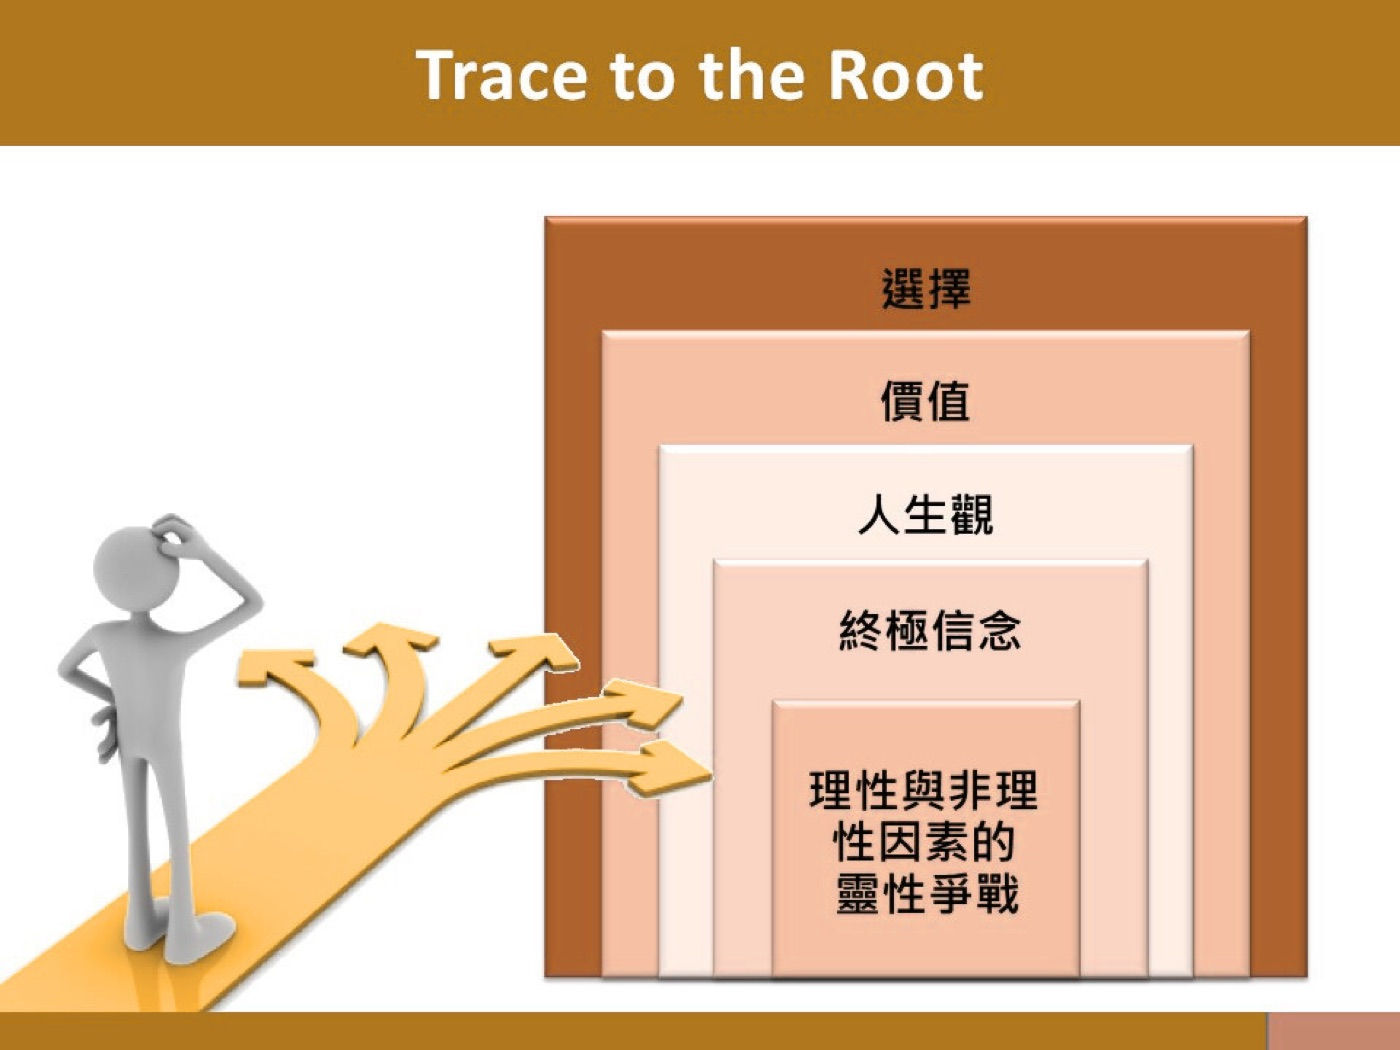
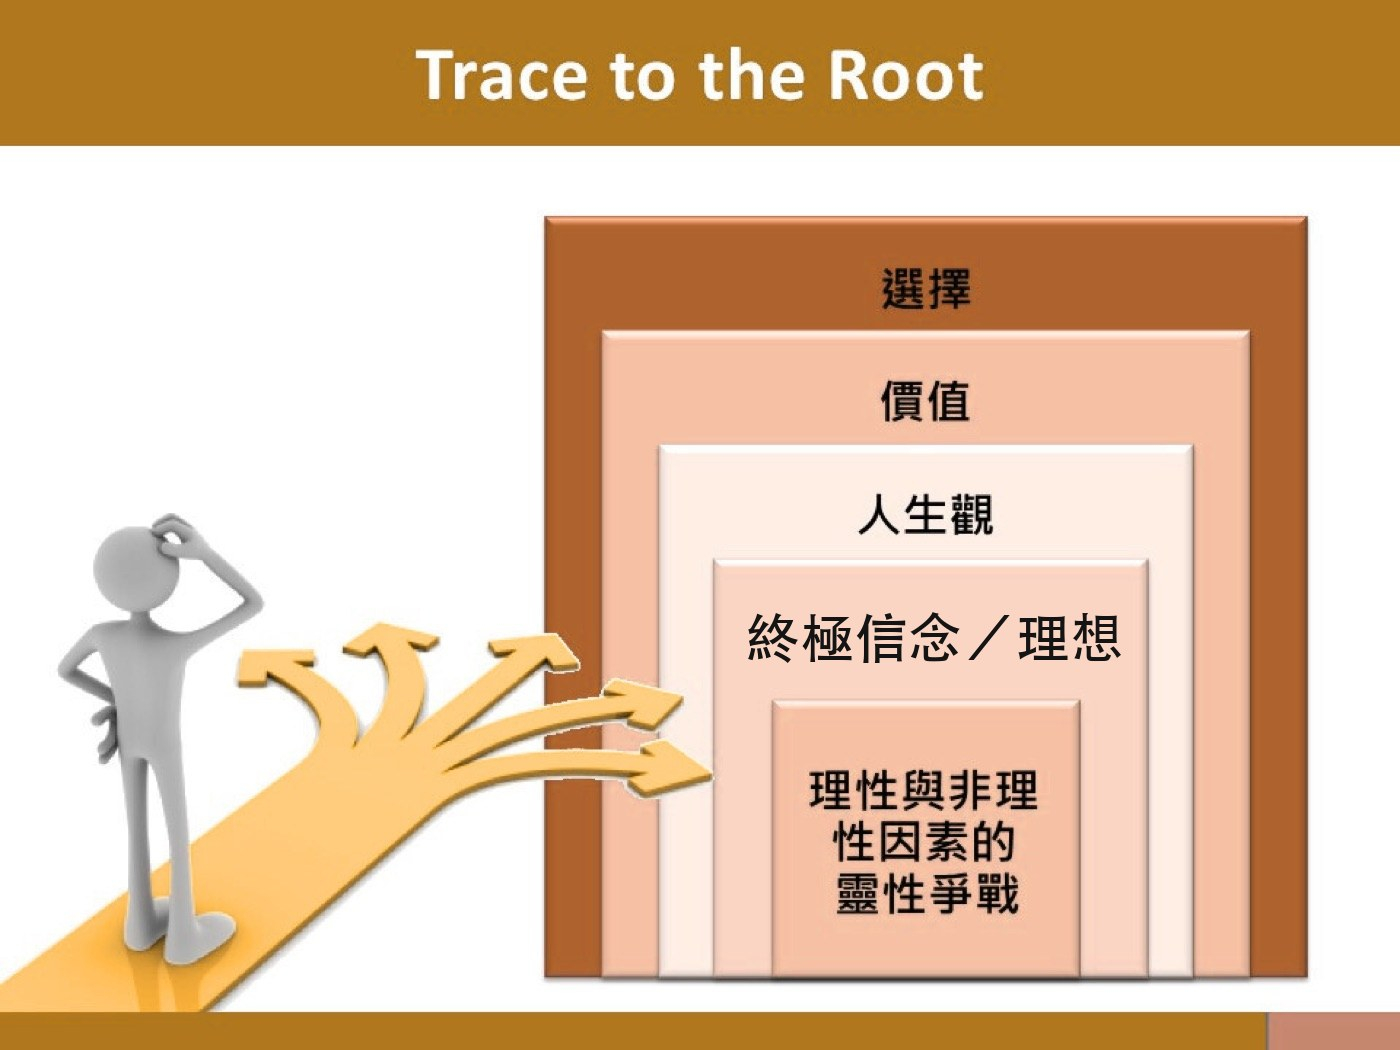
S32：左圖終極信念→終極信念／理想(改圖檔)；底段改為靈性覺性=理性因素朝向終極信念與理想、情緒五毒心七罪宗=非理性因素

Changed region(s): [[0.5221, 0.579, 0.7986, 0.64]]

diff --git a/index.html b/index.html
@@ -555,10 +555,10 @@ body.no-clickzones .click-zones{display:none}
 <section class="slide">
   <h2>選擇現象學：追溯選擇根源（Trace to the Root）</h2>
   <div class="grid2" style="align-items:center;gap:2.6vw">
-    <img class="gimg" src="images/trace_to_root.jpg" alt="Trace to the Root：選擇→價值→人生觀→終極信念→理性與非理性因素的靈性爭戰" style="width:100%;background:#fff">
+    <img class="gimg" src="images/trace_to_root.jpg?v=2" alt="Trace to the Root：選擇→價值→人生觀→終極信念／理想→理性與非理性因素的靈性爭戰" style="width:100%;background:#fff">
     <div>
       <p class="lead" style="max-width:none">再<b>往內</b>看：從表面的「選擇」，一層一層<b>追本溯源</b>——價值 → 人生觀 → 終極信念 → 最深的<b>理性與非理性因素的靈性爭戰</b>。</p>
-      <p style="max-width:none">最深處，是<b>理性與非理性因素之間的靈性爭戰</b>：<b>靈性與覺性</b>是否、又如何起作用，最深遠地左右了一個人的選擇。而我們命名過的<b>五毒心、七罪宗</b>，其實都只是「非理性因素」的例子。</p>
+      <p style="max-width:none">最深處，是<b>理性與非理性因素之間的靈性爭戰</b>：<b>靈性與覺性</b>代表朝向終極信念與理想的<b>理性因素</b>，情緒、五毒心、七罪宗等則代表<b>非理性因素</b>。靈性（或覺性）是否以及如何起作用，將決定非理性因素的影響，因此深遠地左右一個人的選擇。</p>
     </div>
   </div>
 </section>
